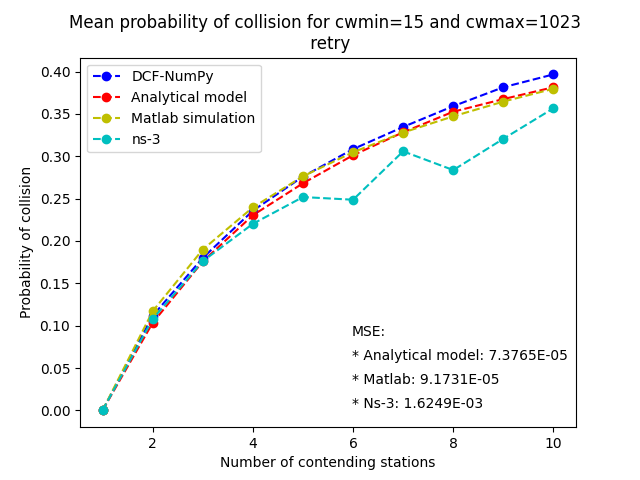
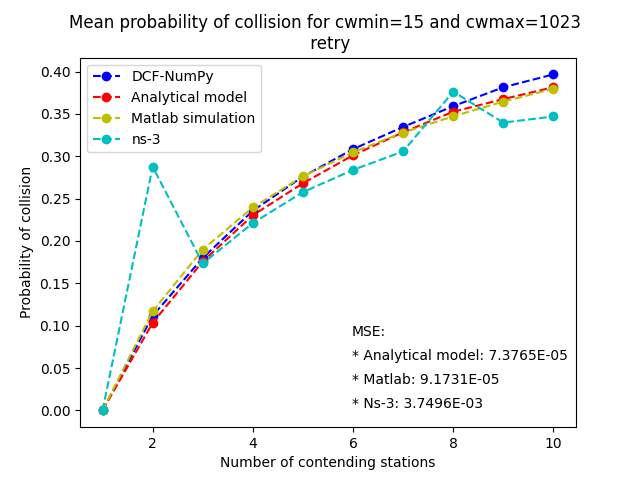
adds script to run ns-3 simulation and new results of ns-3
* adds script to run ns-3 simulation for different number of stations
* runs ns-3 simulation for every number of stations 10 times
* groups and gets mean value of the results
* results icorporated into validation and shown on graphs

diff --git a/validation/run_ns3.py b/validation/run_ns3.py
@@ -1,0 +1,41 @@
+import subprocess
+import pandas as pd
+
+# same data as for DCF-NumPy simulation
+N = 10
+R = 10
+no_stations = [i + 1 for i in range(N)]
+runs = [i + 1 for i in range(R)]
+
+ns3_results = []
+
+for n in no_stations:
+    for r in runs:
+        print(n, r)
+        stream = subprocess.check_output(
+            f'cd ~/ns-allinone-3.31/ns-3.31/ && ./waf --run "scratch/80211a-performance --RngRun={r} --simulationTime=100 --nWifi={n}" | tail -n 2',
+            shell=True
+        )
+
+        results = stream.decode('utf-8').strip().split()
+        thr = float(results[3])
+        p_coll = float(results[-1])
+
+        current_run = [n, r, thr, p_coll]
+        ns3_results.append(current_run)
+
+ns3_results_dt = pd.DataFrame(ns3_results, columns=[
+    'N',
+    'run',
+    'thr_ns3',
+    'p_coll_ns3'
+])
+
+ns3_results_dt.to_csv('./validation/ns3_raw.csv')
+
+mean_ns3_results = ns3_results_dt.groupby(
+    'N')[['thr_ns3', 'p_coll_ns3']].mean()
+mean_ns3_results.columns = ['thr_ns3', 'p_coll_ns3']
+mean_ns3_results = mean_ns3_results.reset_index()
+
+mean_ns3_results.to_csv('./validation/ns3_results.csv', index=False)

diff --git a/validation.py b/validation.py
@@ -25,9 +25,8 @@ matlab_results = pd.read_csv('validation/results_matlab_ready.csv')
 matlab_p_coll = matlab_results[['N', 'p_coll_matlab']]
 
 #adding results from ns3 simulator
-ns3_results = pd.read_csv('validation/ns3_results.csv')
-ns3_results = ns3_results[['N', 'p_coll', 'thr']]
-ns3_results.columns = ['N', 'p_coll_ns3', 'thr_ns3']
+ns3_results = pd.read_csv('validation/ns3_results.csv', index_col=False)
+ns3_results = ns3_results[['N', 'p_coll_ns3', 'thr_ns3']]
 
 #merging the simulation, model, matlab and ns3 results
 final_results = simulation_results.merge(model_p_coll, on='N')

diff --git a/validation/test.py b/validation/test.py
@@ -1,0 +1,17 @@
+import subprocess
+import os
+import pandas as pd
+
+
+
+
+
+data = {'n': [1, 2, 2, 3, 3, 4, 5, 6, 7], 'l': [2, 3,6, 7, 6, 4, 2, 3, 6],'o' : [3, 4, 5, 6, 5, 8, 9, 1, 2]}
+dt = pd.DataFrame(data)
+
+grouped = dt.groupby('n')[['l', 'o']].mean()
+
+grouped.columns = ['l', 'o']
+grouped = grouped.reset_index(0)
+
+print(grouped)
